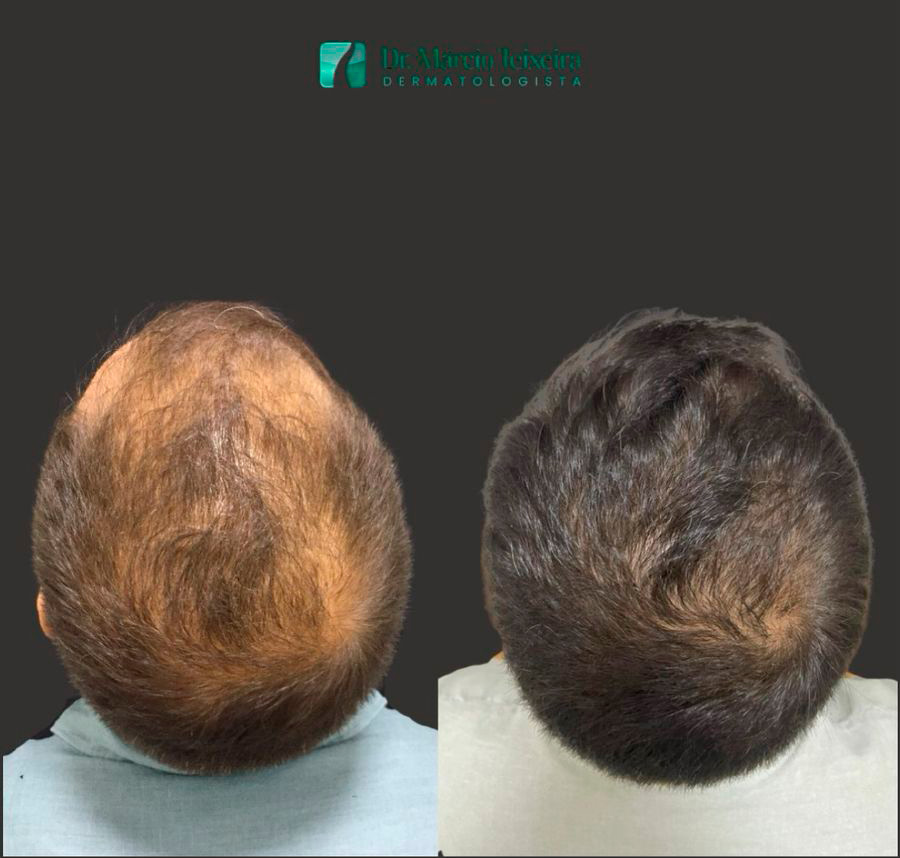
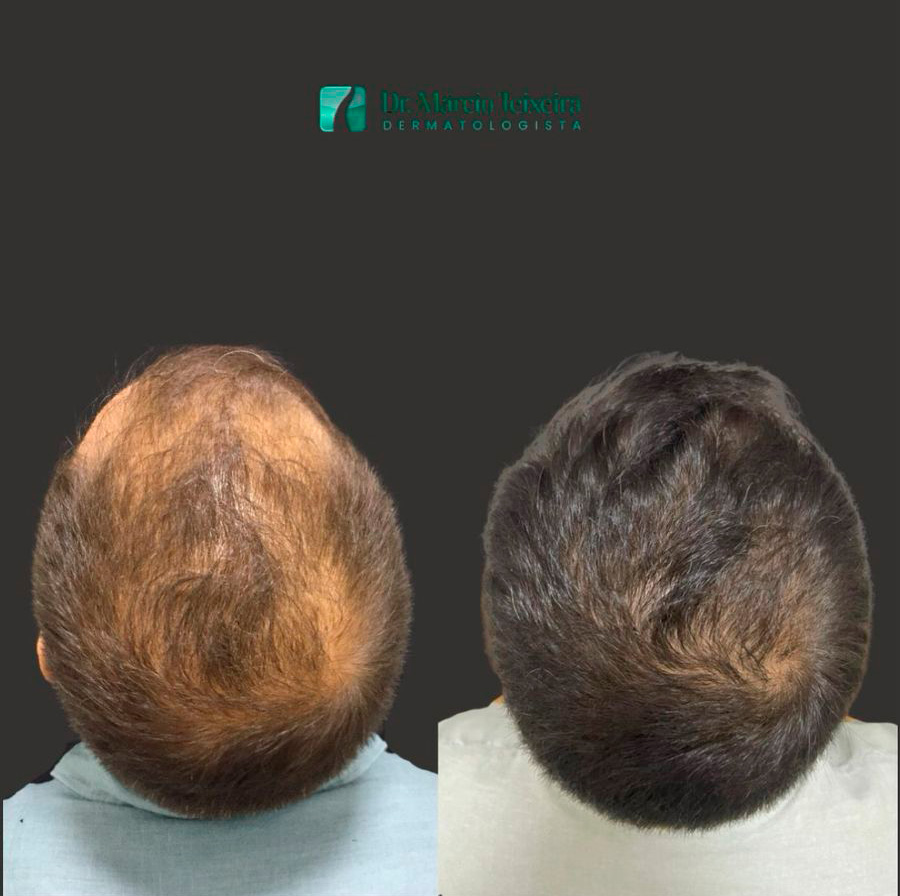
feat(tricologia): secao "evolucao por sessoes" e novos casos na galeria
Adiciona secao entre "passo a passo" e "antes e depois" com as duas faixas
de 3/6/9/12 sessoes, reforcando que o tratamento e continuo e acompanhado.
As faixas rolam horizontalmente abaixo de 760px para os 4 paineis seguirem
legiveis.

Galeria: entram ad-14..ad-17, ad-19, ad-20 e ad-22. Saem os slides ad-03 e
ad-11, que passaram a repetir as fotos das secoes (ad-12 e hero). ad-18 nao
entra por ser a mesma foto da ad-13.

Corrige o alt de ad-12 e ad-13, que ainda descreviam as imagens anteriores.

diff --git a/tricologia.html b/tricologia.html
@@ -192,7 +192,7 @@
       <div class="container">
         <div class="grid-12 tsplit">
           <figure class="col-6 media-frame media-frame--contain reveal">
-            <img src="imagens/tricologia/ad-12.jpg" alt="Antes e depois de tratamento da calvície, vista lateral" loading="lazy" />
+            <img src="imagens/tricologia/ad-12.jpg" alt="Antes e depois de tratamento da calvície na coroa, vista posterior" loading="lazy" />
           </figure>
           <div class="col-6 tsplit__copy">
             <header class="ts-head ts-head--left">
@@ -281,8 +281,37 @@
             </div>
           </div>
           <figure class="col-5 media-frame media-frame--contain reveal">
-            <img src="imagens/tricologia/ad-13.jpg" alt="Antes e depois de tratamento capilar na coroa da cabeça" loading="lazy" />
+            <img src="imagens/tricologia/ad-13.jpg" alt="Antes e depois de tratamento da calvície no topo da cabeça, paciente masculino" loading="lazy" />
           </figure>
+        </div>
+      </div>
+    </section>
+
+    <!-- ================== EVOLUÇÃO · SESSÃO A SESSÃO ================== -->
+    <section class="section section--branco tsec" data-fio="right" aria-labelledby="sessoes-title">
+      <div class="container">
+        <header class="ts-head ts-head--center reveal">
+          <p class="eyebrow"><span class="eyebrow__rule" aria-hidden="true"></span> Evolução</p>
+          <h2 id="sessoes-title" class="ts-title">Sessão a sessão, o cabelo <span class="hl hl--italic">responde</span></h2>
+          <p class="ts-lede">O fio cresce em ciclos, por isso o tratamento capilar é contínuo e acompanhado de perto. A cada sessão o couro cabeludo é reavaliado e fotografado, e a conduta é ajustada conforme a resposta de cada paciente. Abaixo, a evolução registrada da 3ª à 12ª sessão.</p>
+        </header>
+        <div class="sessoes">
+          <figure class="sessoes__item reveal">
+            <div class="sessoes__scroll" tabindex="0" role="group" aria-label="Evolução do topo e da linha frontal em 3, 6, 9 e 12 sessões">
+              <img class="sessoes__img" src="imagens/tricologia/sessoes.jpg" alt="Evolução do tratamento capilar no topo e na linha frontal ao longo de 3, 6, 9 e 12 sessões" loading="lazy" decoding="async" />
+            </div>
+            <figcaption class="sessoes__cap"><span class="sessoes__tag">Topo e linha frontal</span> A densidade avança da coroa em direção à região frontal a cada nova sessão.</figcaption>
+          </figure>
+          <figure class="sessoes__item reveal" style="--i:1">
+            <div class="sessoes__scroll" tabindex="0" role="group" aria-label="Evolução da coroa em 3, 6, 9 e 12 sessões">
+              <img class="sessoes__img" src="imagens/tricologia/sessoes1.jpg" alt="Evolução do tratamento capilar na coroa ao longo de 3, 6, 9 e 12 sessões" loading="lazy" decoding="async" />
+            </div>
+            <figcaption class="sessoes__cap"><span class="sessoes__tag">Coroa</span> Outro acompanhamento, visto por trás, com o couro cabeludo cada vez menos aparente.</figcaption>
+          </figure>
+        </div>
+        <p class="sessoes__hint" aria-hidden="true">Arraste as faixas para ver todas as sessões.</p>
+        <div class="ts-cta ts-cta--center">
+          <a class="btn btn--primary" href="https://wa.me/5551999704848?text=Quero%20come%C3%A7ar%20o%20acompanhamento%20do%20meu%20tratamento%20capilar" target="_blank" rel="noopener">Começar meu acompanhamento</a>
         </div>
       </div>
     </section>
@@ -306,7 +335,6 @@
         <ul class="casos__track casos__track--results" data-casos-track tabindex="0" role="list" aria-label="Resultados reais de antes e depois">
           <li class="caso-item result-item"><figure class="result"><span class="result__frame"><img src="imagens/tricologia/ad-01.jpg" alt="Antes e depois de tratamento da calvície, topo da cabeça" loading="lazy" decoding="async" /></span><figcaption class="result__cap"><span class="result__tag">Antes · Depois</span> Densidade no topo</figcaption></figure></li>
           <li class="caso-item result-item"><figure class="result"><span class="result__frame"><img src="imagens/tricologia/ad-02.jpg" alt="Antes e depois de tratamento capilar, vista de perfil" loading="lazy" decoding="async" /></span><figcaption class="result__cap"><span class="result__tag">Antes · Depois</span> Recuperação lateral</figcaption></figure></li>
-          <li class="caso-item result-item"><figure class="result"><span class="result__frame"><img src="imagens/tricologia/ad-03.jpg" alt="Antes e depois de tratamento da queda na nuca" loading="lazy" decoding="async" /></span><figcaption class="result__cap"><span class="result__tag">Antes · Depois</span> Preenchimento da coroa</figcaption></figure></li>
           <li class="caso-item result-item"><figure class="result"><span class="result__frame"><img src="imagens/tricologia/ad-04.jpg" alt="Antes e depois de tratamento da calvície, perfil" loading="lazy" decoding="async" /></span><figcaption class="result__cap"><span class="result__tag">Antes · Depois</span> Linha frontal</figcaption></figure></li>
           <li class="caso-item result-item"><figure class="result"><span class="result__frame"><img src="imagens/tricologia/ad-05.jpg" alt="Antes e depois de tratamento capilar, vista superior" loading="lazy" decoding="async" /></span><figcaption class="result__cap"><span class="result__tag">Antes · Depois</span> Densidade global</figcaption></figure></li>
           <li class="caso-item result-item"><figure class="result"><span class="result__frame"><img src="imagens/tricologia/ad-06.jpg" alt="Antes e depois de tratamento da queda no topo da cabeça" loading="lazy" decoding="async" /></span><figcaption class="result__cap"><span class="result__tag">Antes · Depois</span> Topo da cabeça</figcaption></figure></li>
@@ -314,7 +342,13 @@
           <li class="caso-item result-item"><figure class="result"><span class="result__frame"><img src="imagens/tricologia/ad-08.jpg" alt="Antes e depois de tratamento da calvície masculina" loading="lazy" decoding="async" /></span><figcaption class="result__cap"><span class="result__tag">Antes · Depois</span> Calvície masculina</figcaption></figure></li>
           <li class="caso-item result-item"><figure class="result"><span class="result__frame"><img src="imagens/tricologia/ad-09.jpg" alt="Antes e depois de tratamento da rarefação capilar feminina" loading="lazy" decoding="async" /></span><figcaption class="result__cap"><span class="result__tag">Antes · Depois</span> Rarefação feminina</figcaption></figure></li>
           <li class="caso-item result-item"><figure class="result"><span class="result__frame"><img src="imagens/tricologia/ad-10.jpg" alt="Antes e depois de tratamento da queda de cabelo" loading="lazy" decoding="async" /></span><figcaption class="result__cap"><span class="result__tag">Antes · Depois</span> Repilação progressiva</figcaption></figure></li>
-          <li class="caso-item result-item"><figure class="result"><span class="result__frame"><img src="imagens/tricologia/ad-11.jpg" alt="Antes e depois de tratamento capilar, vista posterior" loading="lazy" decoding="async" /></span><figcaption class="result__cap"><span class="result__tag">Antes · Depois</span> Firmeza dos fios</figcaption></figure></li>
+          <li class="caso-item result-item"><figure class="result"><span class="result__frame"><img src="imagens/tricologia/ad-14.jpg" alt="Antes e depois de tratamento da rarefação na linha divisória frontal, paciente feminina" loading="lazy" decoding="async" /></span><figcaption class="result__cap"><span class="result__tag">Antes · Depois</span> Linha divisória frontal</figcaption></figure></li>
+          <li class="caso-item result-item"><figure class="result"><span class="result__frame"><img src="imagens/tricologia/ad-15.jpg" alt="Antes e depois de tratamento da rarefação capilar feminina na risca central" loading="lazy" decoding="async" /></span><figcaption class="result__cap"><span class="result__tag">Antes · Depois</span> Risca central mais fechada</figcaption></figure></li>
+          <li class="caso-item result-item"><figure class="result"><span class="result__frame"><img src="imagens/tricologia/ad-16.jpg" alt="Antes e depois de tratamento da calvície na coroa, paciente masculino de cabelos cacheados" loading="lazy" decoding="async" /></span><figcaption class="result__cap"><span class="result__tag">Antes · Depois</span> Coroa masculina</figcaption></figure></li>
+          <li class="caso-item result-item"><figure class="result"><span class="result__frame"><img src="imagens/tricologia/ad-17.jpg" alt="Antes e depois de tratamento capilar na região frontal, paciente feminina" loading="lazy" decoding="async" /></span><figcaption class="result__cap"><span class="result__tag">Antes · Depois</span> Densidade na frente</figcaption></figure></li>
+          <li class="caso-item result-item"><figure class="result"><span class="result__frame"><img src="imagens/tricologia/ad-19.jpg" alt="Antes e depois de tratamento da queda de cabelo na coroa, vista superior" loading="lazy" decoding="async" /></span><figcaption class="result__cap"><span class="result__tag">Antes · Depois</span> Redensificação da coroa</figcaption></figure></li>
+          <li class="caso-item result-item"><figure class="result"><span class="result__frame"><img src="imagens/tricologia/ad-20.jpg" alt="Antes e depois de tratamento capilar na coroa e na nuca, paciente masculino" loading="lazy" decoding="async" /></span><figcaption class="result__cap"><span class="result__tag">Antes · Depois</span> Coroa e nuca</figcaption></figure></li>
+          <li class="caso-item result-item"><figure class="result"><span class="result__frame"><img src="imagens/tricologia/ad-22.jpg" alt="Antes e depois de tratamento da rarefação capilar feminina, vista do topo da cabeça" loading="lazy" decoding="async" /></span><figcaption class="result__cap"><span class="result__tag">Antes · Depois</span> Rarefação no topo</figcaption></figure></li>
         </ul>
       </div>
       <div class="container">

diff --git a/assets/css/main.css b/assets/css/main.css
@@ -2366,7 +2366,8 @@ a.treat-card:hover .treat-card__more svg { transform: translateX(4px); }
   font: 500 14px/1.4 var(--font-body);
   color: var(--tinta-soft);
 }
-.result__tag {
+.result__tag,
+.sessoes__tag {
   flex: none;
   padding: 5px 11px;
   border-radius: var(--r-pill);
@@ -2377,6 +2378,48 @@ a.treat-card:hover .treat-card__more svg { transform: translateX(4px); }
 }
 @media (max-width: 760px) { .result-item { flex-basis: clamp(244px, 80vw, 360px); } }
 @media (prefers-reduced-motion: reduce) { .result:hover .result__frame { transform: none; } }
+
+/* ================================================================== */
+/* Tricologia — evolução por sessões (faixas horizontais rotuladas)   */
+/* ================================================================== */
+.sessoes {
+  display: grid;
+  /* minmax(0,1fr): keeps the track from inheriting the image's min-content
+     width, so the frame can scroll internally instead of widening the page */
+  grid-template-columns: minmax(0, 1fr);
+  gap: clamp(22px, 2.8vw, 34px);
+  margin-top: clamp(28px, 3.6vw, 46px);
+}
+.sessoes__item { margin: 0; min-width: 0; }
+.sessoes__scroll {
+  border-radius: var(--r-lg);
+  overflow: hidden;
+  background: var(--neve);
+  box-shadow: 0 22px 56px rgba(5, 127, 127, 0.12), 0 6px 16px rgba(22, 48, 47, 0.06);
+}
+.sessoes__scroll:focus-visible { outline: 2px solid var(--marca); outline-offset: 3px; }
+.sessoes__img { display: block; width: 100%; height: auto; }
+.sessoes__cap {
+  display: flex; align-items: center; flex-wrap: wrap; gap: 10px;
+  margin: 14px 2px 0;
+  font: 500 14px/1.5 var(--font-body);
+  color: var(--tinta-soft);
+}
+.sessoes__hint { display: none; }
+
+/* the strips hold 4 panels side by side: below ~760px they would shrink   */
+/* past legibility, so the frame scrolls and the image keeps a floor width */
+@media (max-width: 760px) {
+  .sessoes__scroll { overflow-x: auto; scrollbar-width: thin; -webkit-overflow-scrolling: touch; }
+  .sessoes__img { width: 640px; max-width: none; }
+  .sessoes__hint {
+    display: block;
+    margin: 16px 0 0;
+    text-align: center;
+    font: 500 13px/1.5 var(--font-body);
+    color: var(--tinta-soft);
+  }
+}
 
 /* ===================== BLOG ===================== */
 .blog-hero .ts-lede { max-width: 56ch; margin-inline: auto; }
